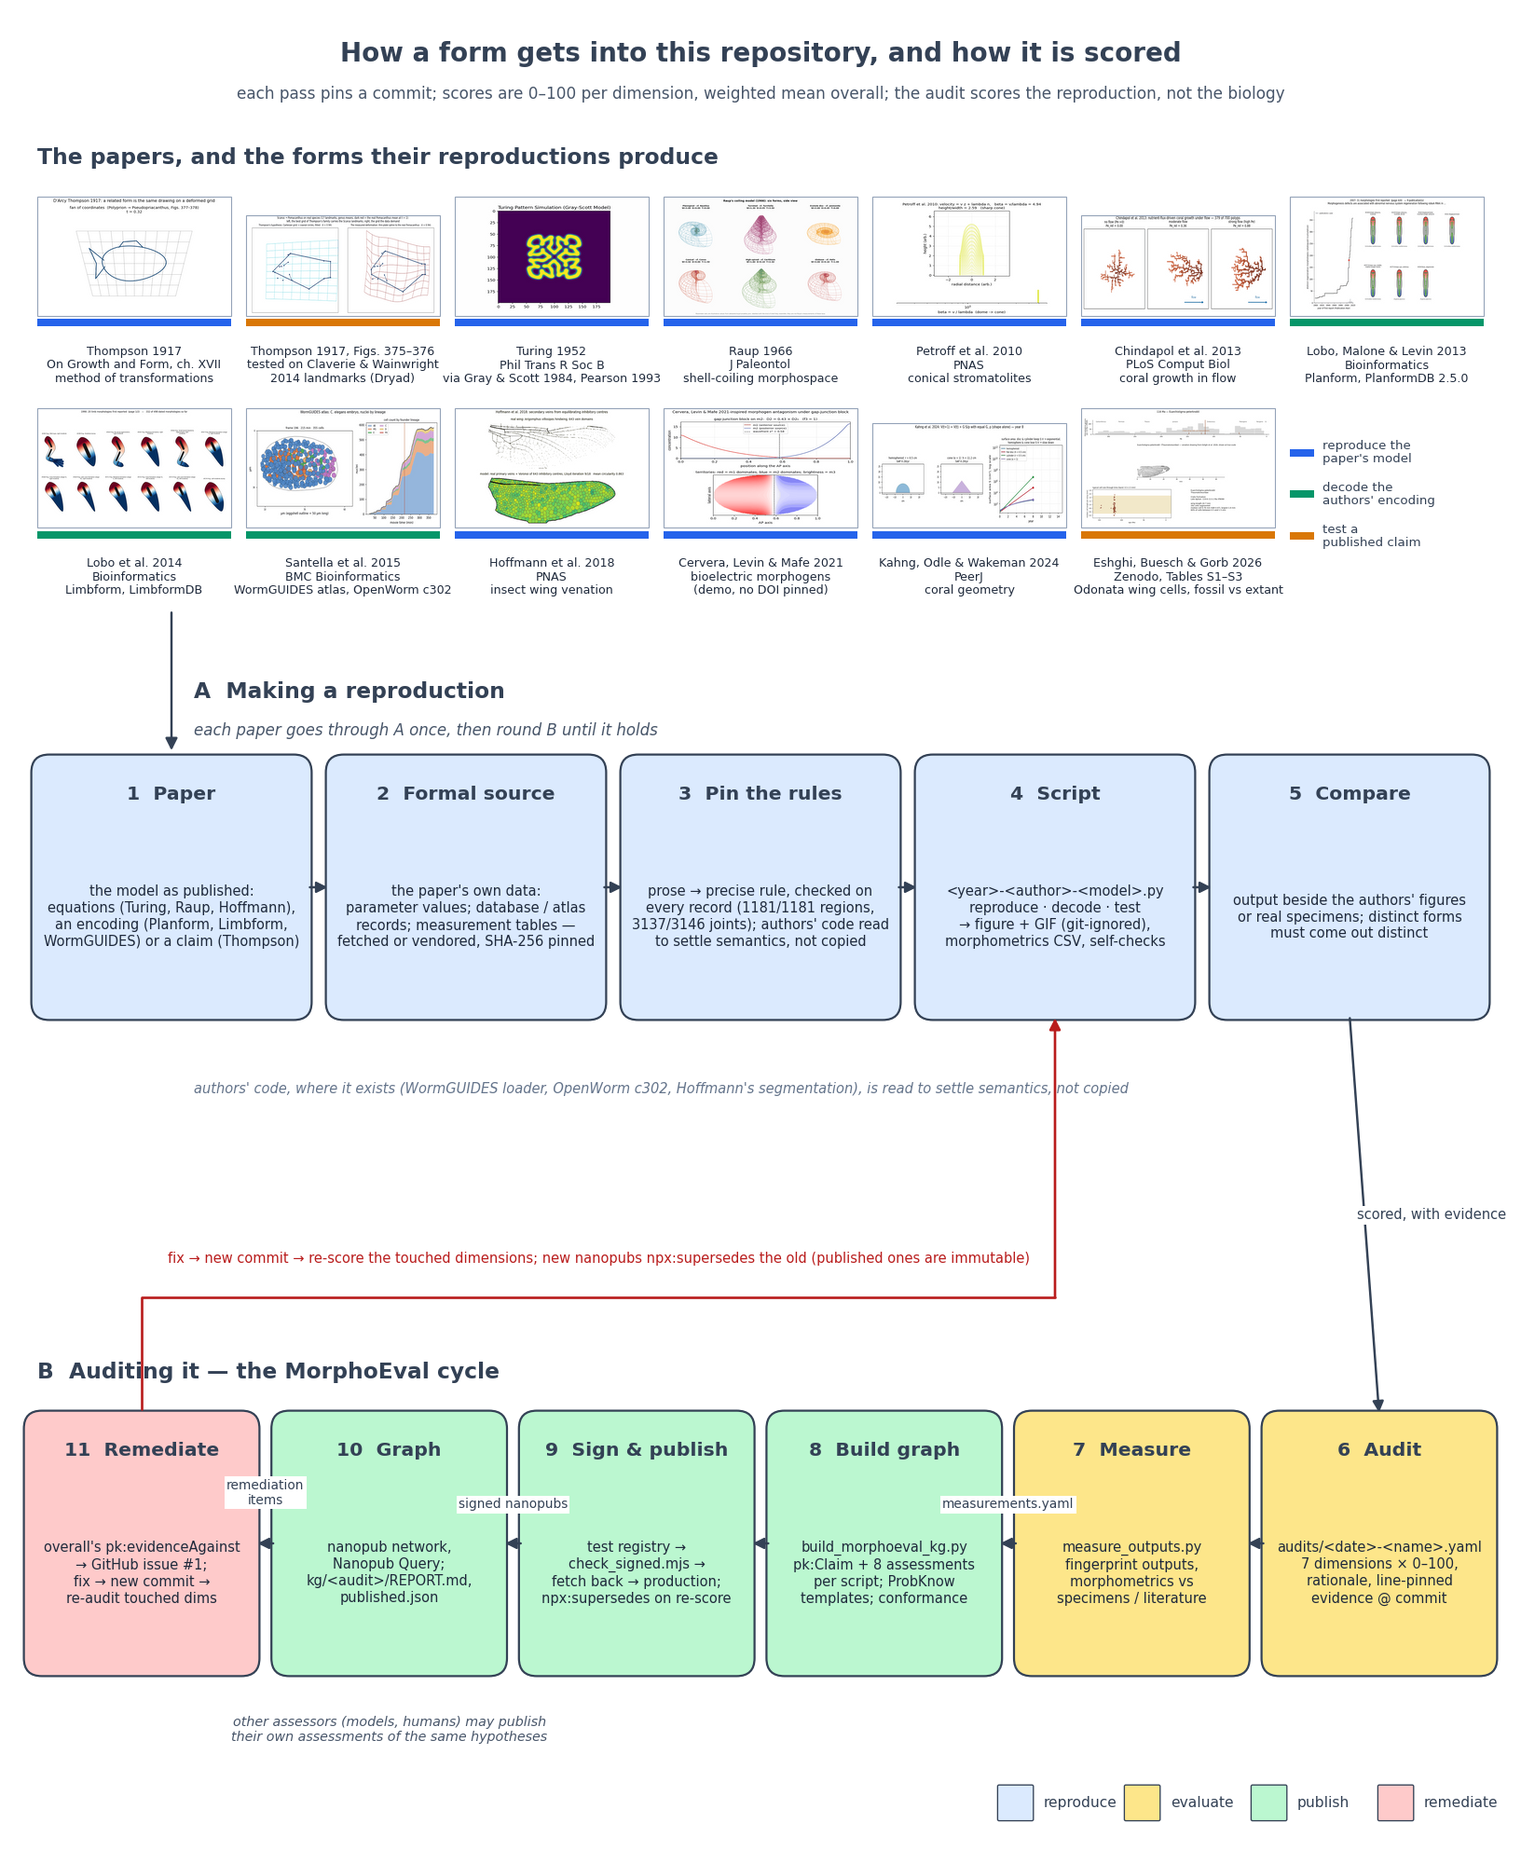
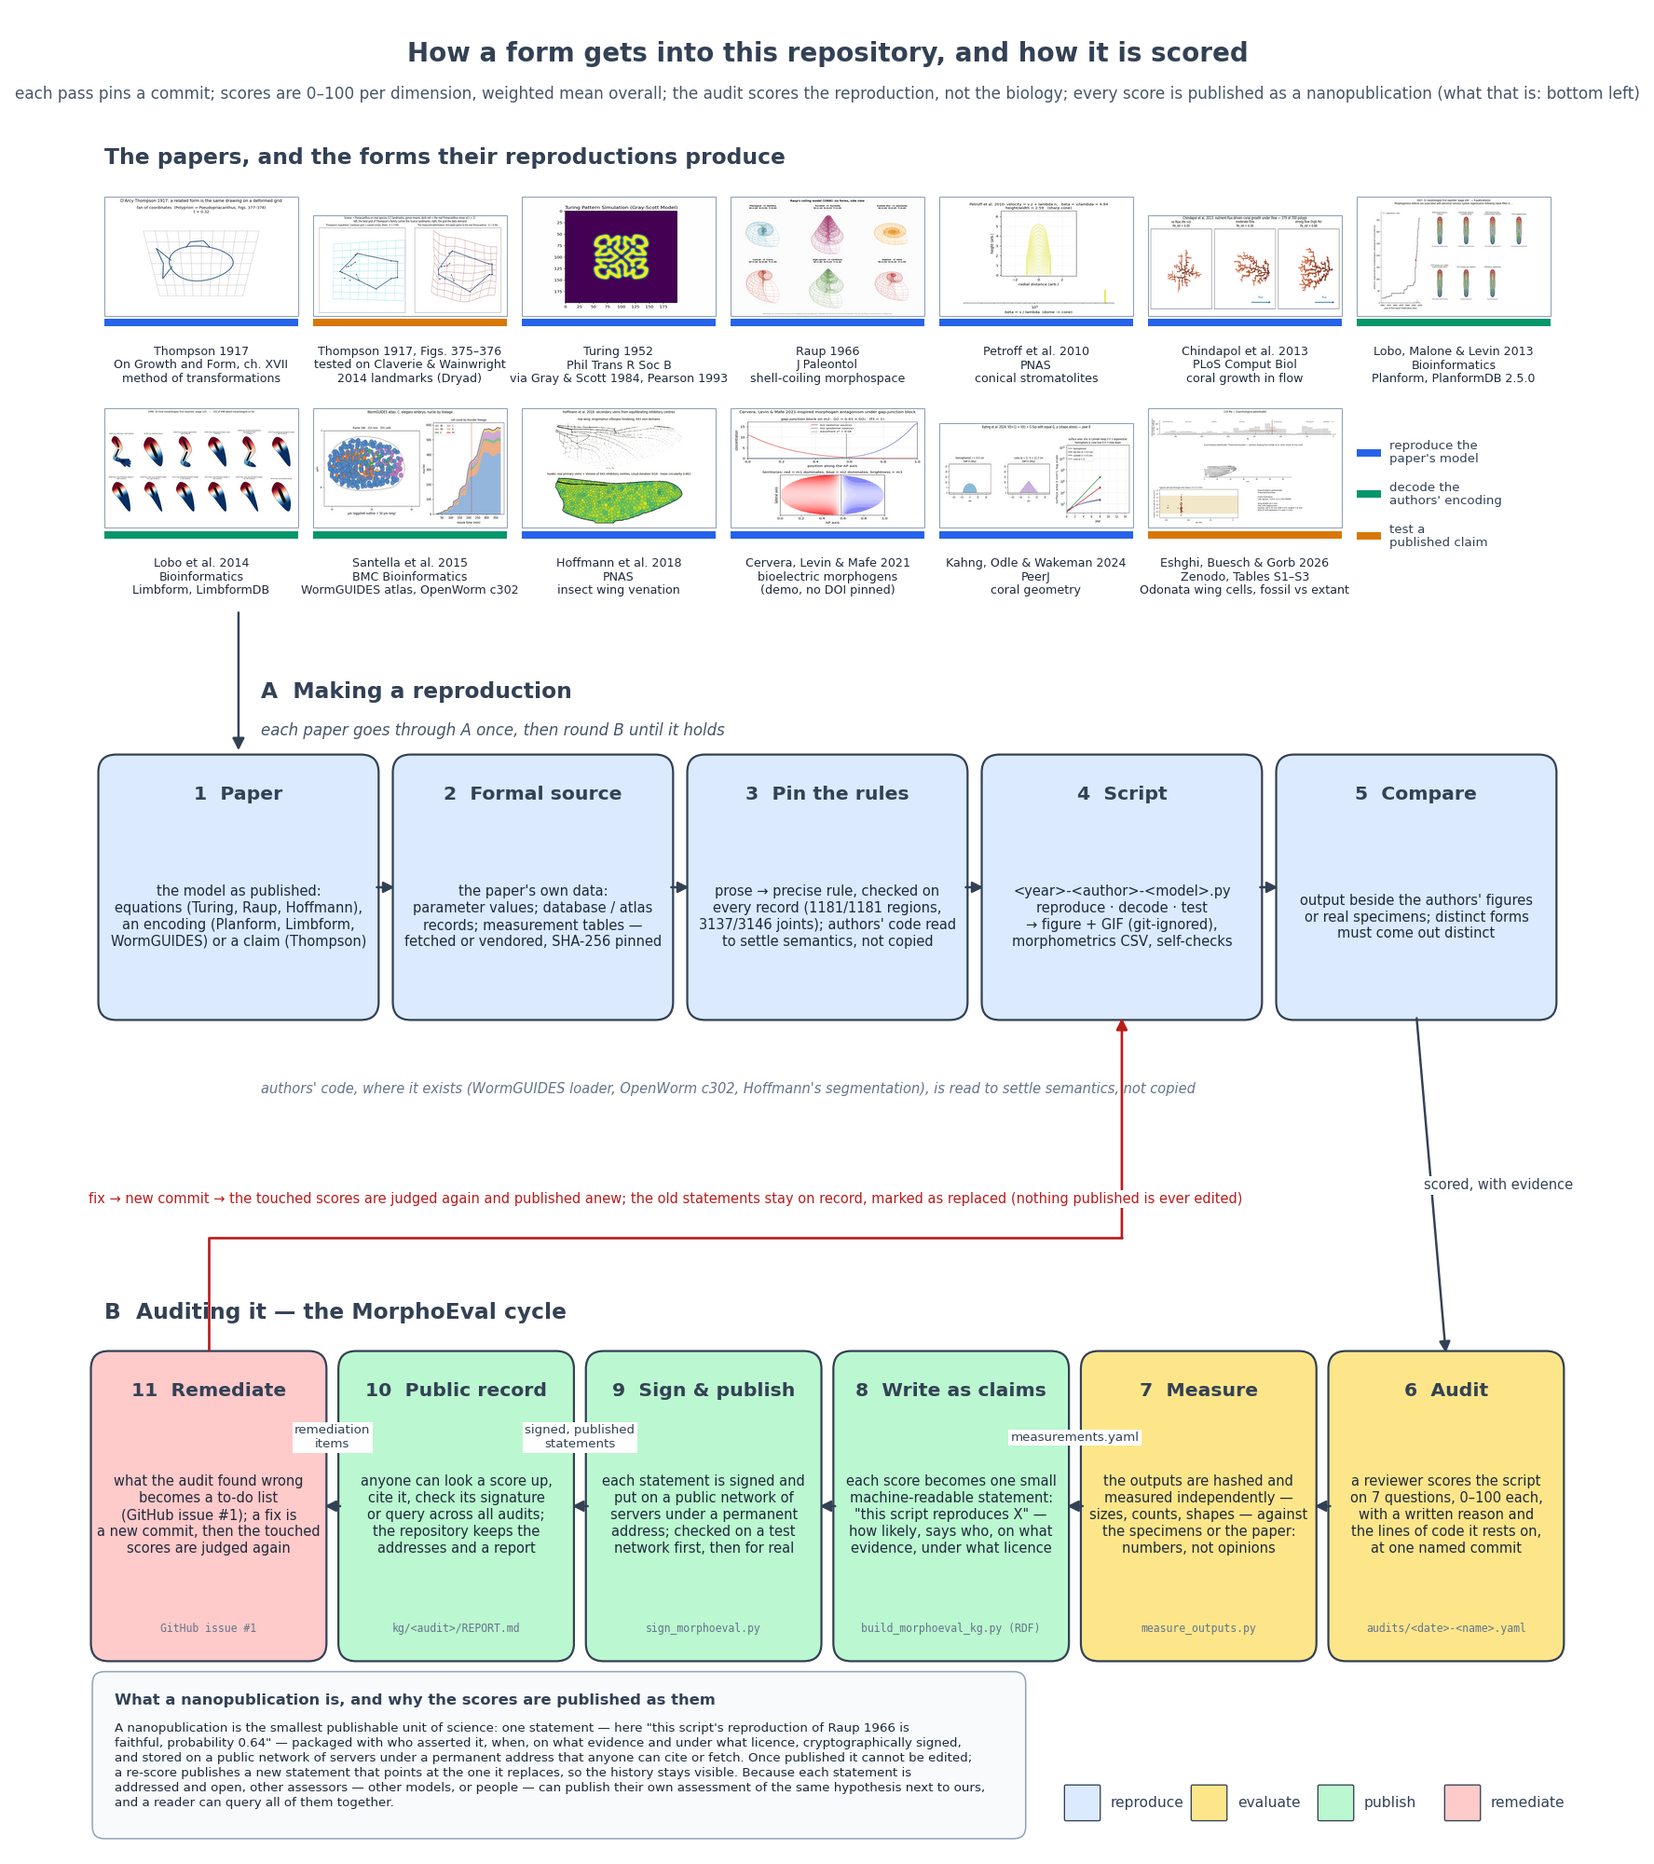
Pipeline diagram: tier B in plain language, with a note on what a nanopublication is
Boxes 6-11 said pk:Claim, npx:supersedes, check_signed.mjs, Nanopub Query;
they now say what happens (a reviewer scores; outputs are measured; each
score becomes one signed statement on a public network under a permanent
address; nothing published is edited, re-scores replace) with the file or
term in small type underneath, and a note at the bottom explains what a
nanopublication is and why the scores are published as them.  Same change
to the Mermaid twin and the README paragraph above the figure.

diff --git a/morphoeval/report/draw_pipeline.py b/morphoeval/report/draw_pipeline.py
@@ -25,7 +25,7 @@ ROOT = Path(__file__).resolve().parents[2]
 
 BUILD = "#dbeafe"; EVAL = "#fde68a"; PUB = "#bbf7d0"; LOOP = "#fecaca"; EDGE = "#334155"; RED = "#b91c1c"
 # (x, y, w, h, colour, title, body) on a 100 x 100 canvas
-YA, YB, H = 56, 12, 17
+YA, YB, H, HB = 56, 13, 17, 20                             # tier B boxes are taller: plain words take more room
 WA, XA = 18.0, [1.5, 21.25, 41.0, 60.75, 80.5]              # five boxes, upper tier (left -> right)
 WB, XB = 15.0, [84.0, 67.4, 50.8, 34.2, 17.6, 1.0]          # six boxes, lower tier (right -> left)
 BOXES = {
@@ -39,18 +39,24 @@ BOXES = {
                 "<year>-<author>-<model>.py\nreproduce · decode · test\n→ figure + GIF (git-ignored),\nmorphometrics CSV, self-checks"),
     "compare": (XA[4], YA, WA, H, BUILD, "5  Compare",
                 "output beside the authors' figures\nor real specimens; distinct forms\nmust come out distinct"),
-    "audit":   (XB[0], YB, WB, H, EVAL,  "6  Audit",
-                "audits/<date>-<name>.yaml\n7 dimensions × 0–100,\nrationale, line-pinned\nevidence @ commit"),
-    "measure": (XB[1], YB, WB, H, EVAL,  "7  Measure",
-                "measure_outputs.py\nfingerprint outputs,\nmorphometrics vs\nspecimens / literature"),
-    "build":   (XB[2], YB, WB, H, PUB,   "8  Build graph",
-                "build_morphoeval_kg.py\npk:Claim + 8 assessments\nper script; ProbKnow\ntemplates; conformance"),
-    "publish": (XB[3], YB, WB, H, PUB,   "9  Sign & publish",
-                "test registry →\ncheck_signed.mjs →\nfetch back → production;\nnpx:supersedes on re-score"),
-    "graph":   (XB[4], YB, WB, H, PUB,   "10  Graph",
-                "nanopub network,\nNanopub Query;\nkg/<audit>/REPORT.md,\npublished.json"),
-    "remed":   (XB[5], YB, WB, H, LOOP,  "11  Remediate",
-                "overall's pk:evidenceAgainst\n→ GitHub issue #1;\nfix → new commit →\nre-audit touched dims"),
+    "audit":   (XB[0], YB, WB, HB, EVAL,  "6  Audit",
+                "a reviewer scores the script\non 7 questions, 0–100 each,\nwith a written reason and\nthe lines of code it rests on,\nat one named commit"),
+    "measure": (XB[1], YB, WB, HB, EVAL,  "7  Measure",
+                "the outputs are hashed and\nmeasured independently —\nsizes, counts, shapes — against\nthe specimens or the paper:\nnumbers, not opinions"),
+    "build":   (XB[2], YB, WB, HB, PUB,   "8  Write as claims",
+                "each score becomes one small\nmachine-readable statement:\n\"this script reproduces X\" —\nhow likely, says who, on what\nevidence, under what licence"),
+    "publish": (XB[3], YB, WB, HB, PUB,   "9  Sign & publish",
+                "each statement is signed and\nput on a public network of\nservers under a permanent\naddress; checked on a test\nnetwork first, then for real"),
+    "graph":   (XB[4], YB, WB, HB, PUB,   "10  Public record",
+                "anyone can look a score up,\ncite it, check its signature\nor query across all audits;\nthe repository keeps the\naddresses and a report"),
+    "remed":   (XB[5], YB, WB, HB, LOOP,  "11  Remediate",
+                "what the audit found wrong\nbecomes a to-do list\n(GitHub issue #1); a fix is\na new commit, then the touched\nscores are judged again"),
+}
+# the file or term behind each tier-B box, in small type under the plain-language body
+TERMS = {
+    "audit": "audits/<date>-<name>.yaml", "measure": "measure_outputs.py",
+    "build": "build_morphoeval_kg.py (RDF)", "publish": "sign_morphoeval.py",
+    "graph": "kg/<audit>/REPORT.md", "remed": "GitHub issue #1",
 }
 
 # the papers, in year order, with a frame of each reproduction's own animation (docs/media/*.gif)
@@ -114,7 +120,23 @@ def box(ax, key):
     x, y, w, h, col, title, body = BOXES[key]
     ax.add_patch(FancyBboxPatch((x, y), w, h, boxstyle="round,pad=0.4,rounding_size=1.2", fc=col, ec=EDGE, lw=1.0))
     ax.text(x + w / 2, y + h - 2.3, title, ha="center", va="center", fontsize=9.2, fontweight="bold", color=EDGE)
-    ax.text(x + w / 2, y + h / 2 - 2.0, body, ha="center", va="center", fontsize=6.6, color="#1e293b", linespacing=1.25)
+    ax.text(x + w / 2, y + h / 2 - 1.2 + (0.6 if key in TERMS else -0.8), body, ha="center", va="center", fontsize=6.6, color="#1e293b", linespacing=1.25)
+    if key in TERMS:
+        ax.text(x + w / 2, y + 1.8, TERMS[key], ha="center", va="center", fontsize=5.2, color="#64748b", family="monospace")
+
+
+def note(ax):
+    """What a nanopublication is, for a reader who has never met one."""
+    x, y, w, h = 1.0, 1.0, 62.0, 10.6
+    ax.add_patch(FancyBboxPatch((x, y), w, h, boxstyle="round,pad=0.3,rounding_size=0.8", fc="#f8fafc", ec="#94a3b8", lw=0.7))
+    ax.text(x + 1.2, y + h - 1.6, "What a nanopublication is, and why the scores are published as them", fontsize=7.4, fontweight="bold", color=EDGE, va="center")
+    import textwrap
+    body = ("A nanopublication is the smallest publishable unit of science: one statement — here \"this script's reproduction of Raup 1966 is faithful, "
+            "probability 0.64\" — packaged with who asserted it, when, on what evidence and under what licence, cryptographically signed, and stored on a "
+            "public network of servers under a permanent address that anyone can cite or fetch. Once published it cannot be edited; a re-score publishes a "
+            "new statement that points at the one it replaces, so the history stays visible. Because each statement is addressed and open, other assessors — "
+            "other models, or people — can publish their own assessment of the same hypothesis next to ours, and a reader can query all of them together.")
+    ax.text(x + 1.2, y + h - 3.1, textwrap.fill(body, 134), fontsize=6.0, color="#1e293b", va="top", linespacing=1.3)
 
 
 def pt(key, side):
@@ -187,7 +209,7 @@ def main(argv=None):
     ax.add_patch(FancyArrowPatch((10.5, YS + 0.2), (10.5, YA + H + 0.4), arrowstyle="-|>", mutation_scale=12, color=EDGE, lw=1.1, zorder=5))
     ax.text(12.0, YA + H + 4.6, "A  Making a reproduction", fontsize=10.5, fontweight="bold", color=EDGE, va="center")
     ax.text(12.0, YA + H + 2.0, "each paper goes through A once, then round B until it holds", fontsize=7.5, style="italic", color="#475569", va="center")
-    ax.text(1.5, YB + H + 3.0, "B  Auditing it — the MorphoEval cycle", fontsize=10.5, fontweight="bold", color=EDGE, va="center")
+    ax.text(1.5, YB + HB + 3.0, "B  Auditing it — the MorphoEval cycle", fontsize=10.5, fontweight="bold", color=EDGE, va="center")
 
     for k in BOXES:
         box(ax, k)
@@ -205,23 +227,23 @@ def main(argv=None):
 
     # tier B, right -> left
     arrow(ax, "audit", "l", "measure", "r")
-    arrow(ax, "measure", "l", "build", "r", "measurements.yaml", ly=2.6, fs=6.2)
+    arrow(ax, "measure", "l", "build", "r", "measurements.yaml", ly=4.6, fs=6.0)
     arrow(ax, "build", "l", "publish", "r")
-    arrow(ax, "publish", "l", "graph", "r", "signed nanopubs", ly=2.6, fs=6.2)
-    arrow(ax, "graph", "l", "remed", "r", "remediation\nitems", ly=3.4, fs=6.2)
+    arrow(ax, "publish", "l", "graph", "r", "signed, published\nstatements", ly=4.6, fs=6.0)
+    arrow(ax, "graph", "l", "remed", "r", "remediation\nitems", ly=4.6, fs=6.0)
 
     # the loop back into tier A: up from Remediate, across the gap, up into Script (an elbow, so it crosses no text)
-    x0, y0 = pt("remed", "t"); x1, y1 = pt("script", "b"); ym = YB + H + 8
+    x0, y0 = pt("remed", "t"); x1, y1 = pt("script", "b"); ym = YB + HB + 8
     ax.plot([x0, x0, x1], [y0 + 0.5, ym, ym], color=RED, lw=1.2, solid_capstyle="round")
     ax.add_patch(FancyArrowPatch((x1, ym), (x1, y1), arrowstyle="-|>", mutation_scale=11, lw=1.2, color=RED, shrinkA=0, shrinkB=2))
-    ax.text((x0 + x1) / 2, ym + 2.6, "fix → new commit → re-score the touched dimensions; new nanopubs npx:supersedes the old (published ones are immutable)",
+    ax.text((x0 + x1) / 2, ym + 2.6, "fix → new commit → the touched scores are judged again and published anew; the old statements stay on record, "
+            "marked as replaced (nothing published is ever edited)",
             ha="center", va="center", fontsize=6.6, color=RED, bbox=dict(fc="white", ec="none", pad=1.0))
-    # a second checkpoint also re-measures
-    ax.text(XB[4] + WB / 2, YB - 4.0, "other assessors (models, humans) may publish\ntheir own assessments of the same hypotheses",
-            ha="center", va="center", fontsize=6.4, color="#475569", style="italic")
+    note(ax)
 
     ax.text(50, YLIM - 2.6, "How a form gets into this repository, and how it is scored", ha="center", va="center", fontsize=12.5, fontweight="bold", color=EDGE)
-    ax.text(50, YLIM - 5.3, "each pass pins a commit; scores are 0–100 per dimension, weighted mean overall; the audit scores the reproduction, not the biology",
+    ax.text(50, YLIM - 5.3, "each pass pins a commit; scores are 0–100 per dimension, weighted mean overall; the audit scores the reproduction, not the biology; "
+            "every score is published as a nanopublication (what that is: bottom left)",
             ha="center", va="center", fontsize=7.6, color="#475569")
     for i, (c, l) in enumerate([(BUILD, "reproduce"), (EVAL, "evaluate"), (PUB, "publish"), (LOOP, "remediate")]):
         ax.add_patch(FancyBboxPatch((66 + i * 8.5, 2.0), 2.2, 2.2, boxstyle="round,pad=0.1", fc=c, ec=EDGE, lw=0.6))

diff --git a/README.md b/README.md
@@ -254,9 +254,9 @@ Thompson-focused notes and dataset curation are in:
 
 ## MorphoEval: how faithful are these reproductions?
 
-[`morphoeval/`](./morphoeval/) is a seven-dimension rubric (model fidelity, specimen match, parameter expressivity, morphometric validation, source traceability, code traceability, reproducibility package; weights sum to 100) applied to the scripts above, with every score backed by line-pinned evidence at a recorded commit and by measurements taken on the rendered outputs. Audits are YAML files under `morphoeval/audits/`, built into ProbKnow-conformant nanopublications (`pk:LLMClaimAssessment` per dimension, `schema:PropertyValue` measurement evidence), signed, verified independently, and published to the production nanopub network; re-scores are new nanopubs that `npx:supersedes` the old ones.
+[`morphoeval/`](./morphoeval/) is a seven-dimension rubric (model fidelity, specimen match, parameter expressivity, morphometric validation, source traceability, code traceability, reproducibility package; weights sum to 100) applied to the scripts above, with every score backed by line-pinned evidence at a recorded commit and by measurements taken on the rendered outputs. Audits are YAML files under `morphoeval/audits/`. Each score is then published as a *nanopublication*: the smallest publishable unit of science — one statement ("this script's reproduction of Raup 1966 is faithful, probability 0.64") packaged with who asserted it, when, on what evidence and under what licence, cryptographically signed, and stored on a public network of servers under a permanent address that anyone can cite, fetch or query. Published statements are never edited; a re-score publishes new ones that point at those they replace, so the history stays visible, and other assessors (other models, or people) can publish their own assessment of the same hypothesis next to ours. In the vocabulary of the network: ProbKnow-conformant nanopubs, one `pk:LLMClaimAssessment` per dimension with `schema:PropertyValue` measurement evidence, re-scores linked by `npx:supersedes`.
 
-How a form gets into the repository and how it is scored. Top: the thirteen source papers, each playing its reproduction's own animation and colour-coded by what the script does with it (reproduce the paper's model from its equations, decode the authors' formal encoding, or test a published claim). Tier A: paper → its formal source → rules pinned and verified on the data → script → comparison with the authors' figures or specimens. Tier B: the audit cycle (the Mermaid source is in [`morphoeval/README.md`](./morphoeval/README.md#the-cycle)):
+How a form gets into the repository and how it is scored. Top: the thirteen source papers, each playing its reproduction's own animation and colour-coded by what the script does with it (reproduce the paper's model from its equations, decode the authors' formal encoding, or test a published claim). Tier A: paper → its formal source → rules pinned and verified on the data → script → comparison with the authors' figures or specimens. Tier B: the audit cycle, from the reviewer's scores to signed public statements and back to the code (the Mermaid source is in [`morphoeval/README.md`](./morphoeval/README.md#the-cycle)):
 
 ![How a reproduction is made and how MorphoEval scores it](./docs/media/morphoeval_pipeline.gif)
 

diff --git a/morphoeval/README.md b/morphoeval/README.md
@@ -71,19 +71,21 @@ flowchart TB
 
     subgraph B["B &nbsp;Auditing it — the MorphoEval cycle"]
         direction LR
-        AU["6 Audit<br/>audits/&lt;date&gt;-&lt;name&gt;.yaml<br/>7 dims × 0–100, rationale,<br/>line-pinned evidence @ commit"]:::eval
-        M["7 Measure<br/>measure_outputs.py<br/>fingerprints + morphometrics<br/>vs specimens"]:::eval
-        BG["8 Build graph<br/>build_morphoeval_kg.py<br/>pk:Claim + 8 assessments,<br/>ProbKnow templates"]:::pub
-        PU["9 Sign &amp; publish<br/>test → check_signed.mjs →<br/>fetch back → production"]:::pub
-        G[("10 Knowledge graph<br/>nanopub network · Nanopub Query<br/>kg/&lt;audit&gt;/published.json")]:::pub
-        T["11 Remediate<br/>pk:evidenceAgainst → issue #1<br/>fix → new commit"]:::loop
+        AU["6 Audit<br/>a reviewer scores the script on 7 questions,<br/>0–100 each, with a written reason and the lines<br/>of code it rests on, at one commit<br/><small>audits/&lt;date&gt;-&lt;name&gt;.yaml</small>"]:::eval
+        M["7 Measure<br/>outputs hashed and measured independently<br/>against specimens or the paper:<br/>numbers, not opinions<br/><small>measure_outputs.py</small>"]:::eval
+        BG["8 Write as claims<br/>each score becomes one small machine-readable<br/>statement: 'this script reproduces X' — how likely,<br/>says who, on what evidence, under what licence<br/><small>build_morphoeval_kg.py (RDF, ProbKnow templates)</small>"]:::pub
+        PU["9 Sign &amp; publish<br/>each statement is signed and put on a public<br/>network of servers under a permanent address;<br/>test network first, then for real<br/><small>sign_morphoeval.py</small>"]:::pub
+        G[("10 Public record<br/>anyone can look a score up, cite it, check its<br/>signature or query across all audits<br/><small>Nanopub Query · kg/&lt;audit&gt;/REPORT.md</small>")]:::pub
+        T["11 Remediate<br/>what the audit found wrong becomes a to-do list;<br/>a fix is a new commit, then the touched scores<br/>are judged again<br/><small>GitHub issue #1</small>"]:::loop
         AU --> M --> BG --> PU --> G --> T
     end
 
     C -- scored, with evidence --> AU
-    T -- "fix → new commit; re-score touched dimensions;<br/>new nanopubs npx:supersedes the old" --> X
-    G -. other assessors may add their own<br/>assessments of the same hypotheses .-> BG
+    T -- "fix → new commit → touched scores judged again and published anew;<br/>the old statements stay on record, marked as replaced (nothing published is edited)" --> X
+    G -. other assessors (models, people) may publish their own<br/>assessment of the same hypotheses .-> BG
 ```
+
+*What a nanopublication is:* the smallest publishable unit of science — one statement (here "this script's reproduction of Raup 1966 is faithful, probability 0.64") packaged with who asserted it, when, on what evidence and under what licence, cryptographically signed, and stored on a public network of servers under a permanent address anyone can cite or fetch. Once published it cannot be edited; a re-score publishes a new statement that points at the one it replaces, so the history stays visible, and other assessors can publish their own assessment of the same hypothesis next to ours.
 
 ## Workflow
 
